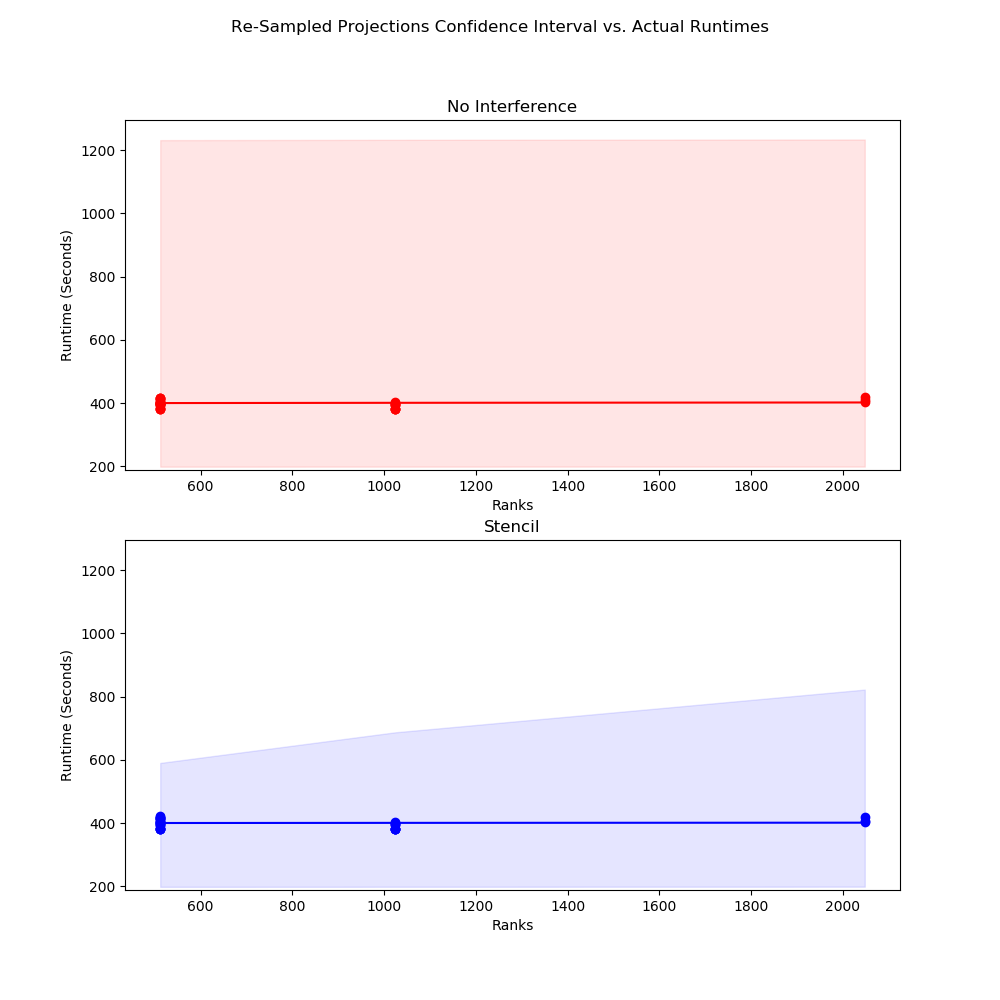
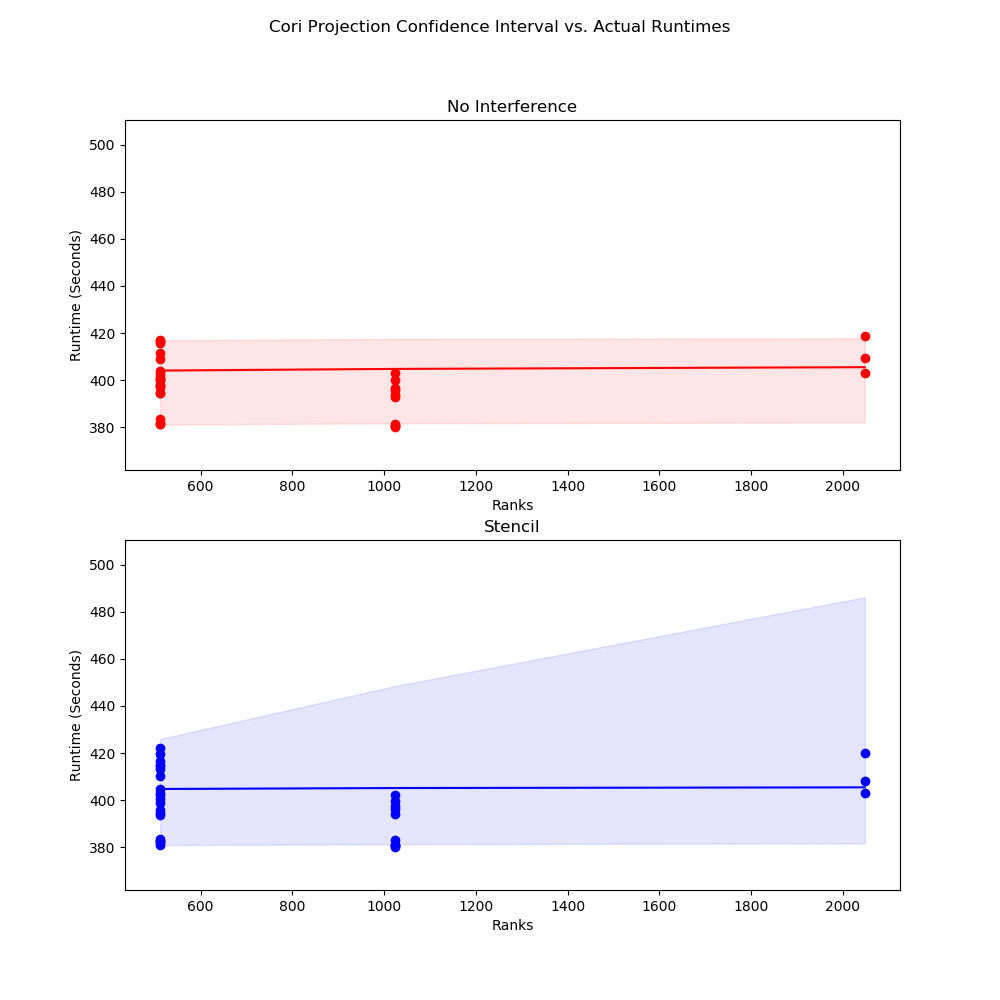
Made some tweaks - Cori looks a bit better now, need to run and update Attaway figures

diff --git a/Results/cori.py b/Results/cori.py
@@ -10,6 +10,8 @@ import pandas as pd
 import matplotlib.pyplot as plt
 import matplotlib.axes as axes
 
+from scipy import stats
+
 
 def getMetaData( explist ):
     # Get DataFrame of All Experiments
@@ -206,31 +208,34 @@ def generateRuntimeFigure( fname, figfile ):
     plt.savefig( figfile, bbox_inches='tight' )
 
 
-def generatePredictionFigure( df_All, workload, baseRanks, fname ):
+def generatePredictionFigure( df_All, workload, baseRanks, CI, fname ):
     print( 'Generating Prediction for: ' + workload )
 
     outfile = 'Figures/Cori_' + workload + '_prediction'
+    coriData = pd.read_csv( fname )
+    workloadData = coriData[ ( coriData['Workload'] == workload ) & ( coriData['Ranks'] == baseRanks )]
 
     kvals = np.array( [1, 2, 4] )
-    iterations = 50
+    iterations = 100
 
     MILLION = 1000000
+    eps = 10 ** -5
     yMin = 0
     yMax = 0
     count = 0
 
     fig, axs = plt.subplots( 2, 1, figsize=( 10, 10 ) )
-    fig.suptitle( 'Re-Sampled Projections Confidence Interval vs. Actual Runtimes' )
+    fig.suptitle( 'Cori Projection Confidence Interval vs. Actual Runtimes' )
 
     count = 0
     labels = ['No Stencil', 'Stencil']
 
     if workload == 'hpcg' or workload == 'lammps':
-        df_Cori_NoStencil = df_All[ ( df_All['machine'] == 'Cori' ) & ( df_All['processors'] == baseRanks ) & ( df_All['workload'] == workload ) & ( df_All['stencil_size'] == 0 ) ]
+        df_Cori_NoStencil = df_All[ ( df_All['machine'] == 'Cori' ) & ( df_All['processors'] == baseRanks ) & ( df_All['workload'] == workload ) & ( df_All['stencil_size'] == 0 ) & ( df_All['rabbit_workload'] == 0 ) ]
         df_List = [df_Cori_NoStencil]
     else:
-        df_Cori_NoStencil = df_All[ ( df_All['machine'] == 'Cori' ) & ( df_All['processors'] == baseRanks ) & ( df_All['workload'] == workload ) & ( df_All['stencil_size'] == 0 ) ]
-        df_Cori_Stencil = df_All [ ( df_All['machine'] == 'Cori' ) & ( df_All['processors'] == baseRanks ) & ( df_All['workload'] == workload ) & ( df_All['stencil_size'] != 0 ) ]
+        df_Cori_NoStencil = df_All[ ( df_All['machine'] == 'Cori' ) & ( df_All['processors'] == baseRanks ) & ( df_All['workload'] == workload ) & ( df_All['stencil_size'] == 0 ) & ( df_All['rabbit_workload'] == 0 ) ]
+        df_Cori_Stencil = df_All[ ( df_All['machine'] == 'Cori' ) & ( df_All['processors'] == baseRanks ) & ( df_All['workload'] == workload ) & ( df_All['stencil_size'] != 0 ) & ( df_All['rabbit_workload'] == 0 ) ]
         df_List = [df_Cori_NoStencil, df_Cori_Stencil]
 
     for df in df_List:
@@ -238,34 +243,73 @@ def generatePredictionFigure( df_All, workload, baseRanks, fname ):
         print( labels[count] )
 
         lowerBound = []
-        median = []
+        middle = []
         upperBound = []
+
+        if ( count == 0 ):
+            runtimeData = workloadData[workloadData['Stencil'] == 0]['Runtime']
+        else:
+            runtimeData = workloadData[workloadData['Stencil'] != 0]['Runtime']
+
+        minRuntime = min( runtimeData )
+        medianRuntime = runtimeData.iloc[ int( len( runtimeData ) / 2  ) ]
+        maxRuntime = max( runtimeData )
+
         for k in kvals:
-            expList = []
+            expListMin = []
+            expListMed = []
+            expListMax = []
 
             for run in range( 0, len( df ) ):
                 currentRun = df.iloc[run]
                 eid = currentRun['Experiment']
                 rid = currentRun['expid']
-                currentPath = './mlruns/' + str(eid) + '/' + str(rid) + '/artifacts/bsp-trace.json'
-                currentData = analysis.getData(currentPath)
+                currentPath = './mlruns/' + str( eid ) + '/' + str( rid ) + '/artifacts/bsp-trace.json'
+                currentData = analysis.getData( currentPath )
                 currentData = currentData[currentData['rank'] == 0]
+                currentRuntime = sum( currentData['interval_max_usec'] ) / MILLION
 
-                for i in range( iterations ):
-                    data = analysis.resample_project( currentData, len( currentData ), k, col='interval_max_usec' )
-                    projectedRunTime = sum( data ) / MILLION
-                    expList.append( projectedRunTime )
-                expList.sort()
+                if ( abs( currentRuntime - maxRuntime ) < eps ) or ( abs( currentRuntime - medianRuntime ) < eps ) or ( abs( currentRuntime - minRuntime ) < eps ):
+                    for i in range( iterations ):
+                        data = analysis.resample_project( currentData, len( currentData ), k, col='interval_max_usec' )
+                        projectedRunTime = sum( data ) / MILLION
+                        print( 'Run:', run + 1, '/', len( df ), '\tIteration:', i + 1, '/', iterations, '\tWorkload:', workload, '\tk:', k, '\tProjected Runtime:', projectedRunTime )
 
-            lowerBound.append( expList[0] )
-            median.append( expList[int( len( expList ) / 2 )] )
-            upperBound.append( expList[-1] )
+                        if ( abs( currentRuntime - minRuntime ) < eps ):
+                            expListMin.append( projectedRunTime )
+                        if ( abs( currentRuntime - medianRuntime ) < eps ):
+                            expListMed.append( projectedRunTime )
+                        if ( abs( currentRuntime - maxRuntime ) < eps ):
+                            expListMax.append( projectedRunTime )
+
+            expListMin.sort()
+            expListMed.sort()
+            expListMax.sort()
+
+            meanMin = np.mean( np.array( expListMin ) )
+            stvMin = stats.sem( np.array( expListMin ) )
+
+            meanMed = np.mean( np.array( expListMed ) )
+            stvMed = stats.sem( np.array( expListMed ) )
+
+            meanMax = np.mean( np.array( expListMax ) )
+            stvMax = stats.sem( np.array( expListMax ) )
+
+            intervalMin = stats.norm.interval( CI, loc=meanMin, scale=stvMin )
+            intervalMed = stats.norm.interval( CI, loc=meanMed, scale=stvMed )
+            intervalMax = stats.norm.interval( CI, loc=meanMax, scale=stvMax )
+
+            print( CI, '$ Confidence Interval:', intervalMin[0], intervalMax[1], '\tMedian:', ( intervalMed[0] + intervalMed[1] ) / 2 )
+
+            lowerBound.append( intervalMin[0] )
+            middle.append( ( intervalMed[0] + intervalMed[1] ) / 2 )
+            upperBound.append( intervalMax[1] )
 
         if count == 0:
-            _ = axs[count].plot( baseRanks * kvals, median, color='red' )
+            _ = axs[count].plot( baseRanks * kvals, middle, color='red' )
             _ = axs[count].fill_between( baseRanks * kvals, lowerBound, upperBound, color='red', alpha=.1 )
         if count == 1:
-            _ = axs[count].plot( baseRanks * kvals, median, color='blue' )
+            _ = axs[count].plot( baseRanks * kvals, middle, color='blue' )
             _ = axs[count].fill_between( baseRanks * kvals, lowerBound, upperBound, color='blue', alpha=.1)
 
         if count == 0:
@@ -278,8 +322,6 @@ def generatePredictionFigure( df_All, workload, baseRanks, fname ):
                 yMax = max( upperBound )
 
         count = count + 1
-
-    coriData = pd.read_csv( fname )
 
     for run in range( 0, len( coriData ) ):
         label = ''
@@ -314,7 +356,8 @@ def generatePredictionFigure( df_All, workload, baseRanks, fname ):
 
 
 def main():
-    # writeMetaData( 'Results/CoriData.csv', list( range( 85, 235 ) ) )
+    expRange = list( range( 85, 235 ) )
+    # writeMetaData( 'Results/CoriData.csv', expRange )
 
     # writeNormalizedMetaData( 'Results/CoriData.csv', 'Results/CoriNormalized.csv' )
 
@@ -323,9 +366,12 @@ def main():
     workloads = ['sleep', 'fwq', 'dgemm', 'spmv', 'hpcg', 'lammps']
 
     df_All = analysis.getAllExperiments()
+    df_All = df_All.loc[ df_All[ 'Experiment' ].isin( expRange ) ]
+
     baseRanks = 512
+    CI = 0.95
 
     for workload in workloads:
-        generatePredictionFigure( df_All, workload, baseRanks, 'Results/CoriData.csv' )
+        generatePredictionFigure( df_All, workload, baseRanks, CI, 'Results/CoriData.csv' )
 
 main()

diff --git a/Results/attaway.py b/Results/attaway.py
@@ -10,6 +10,8 @@ import pandas as pd
 import matplotlib.pyplot as plt
 import matplotlib.axes as axes
 
+from scipy import stats
+
 
 def getMetaData( explist ):
     # Get DataFrame of All Experiments
@@ -206,21 +208,24 @@ def generateRuntimeFigure( fname, figfile ):
     plt.savefig( figfile, bbox_inches='tight' )
 
 
-def generatePredictionFigure( df_All, workload, baseRanks, fname ):
+def generatePredictionFigure( df_All, workload, baseRanks, CI, fname ):
     print( 'Generating Prediction for: ' + workload )
 
     outfile = 'Figures/Attaway_' + workload + '_prediction'
+    coriData = pd.read_csv( fname )
+    workloadData = coriData[ ( coriData['Workload'] == workload ) & ( coriData['Ranks'] == baseRanks )]
 
     kvals = np.array( [1, 2, 4] )
-    iterations = 50
+    iterations = 1000
 
     MILLION = 1000000
+    eps = 10 ** -5
     yMin = 0
     yMax = 0
     count = 0
 
     fig, axs = plt.subplots( 2, 1, figsize=( 10, 10 ) )
-    fig.suptitle( 'Re-Sampled Projections Confidence Interval vs. Actual Runtimes' )
+    fig.suptitle( 'Attaway Projection Confidence Interval vs. Actual Runtimes' )
 
     count = 0
     labels = ['No Stencil', 'Stencil']
@@ -237,34 +242,73 @@ def generatePredictionFigure( df_All, workload, baseRanks, fname ):
         print( labels[count] )
 
         lowerBound = []
-        median = []
+        middle = []
         upperBound = []
+
+        if ( count == 0 ):
+            runtimeData = workloadData[workloadData['Stencil'] == 0]['Runtime']
+        else:
+            runtimeData = workloadData[workloadData['Stencil'] != 0]['Runtime']
+
+        minRuntime = min( runtimeData )
+        medianRuntime = runtimeData.iloc[ int( len( runtimeData ) / 2  ) ]
+        maxRuntime = max( runtimeData )
+
         for k in kvals:
-            expList = []
+            expListMin = []
+            expListMed = []
+            expListMax = []
 
             for run in range( 0, len( df ) ):
                 currentRun = df.iloc[run]
                 eid = currentRun['Experiment']
                 rid = currentRun['expid']
-                currentPath = './mlruns/' + str(eid) + '/' + str(rid) + '/artifacts/bsp-trace.json'
-                currentData = analysis.getData(currentPath)
+                currentPath = './mlruns/' + str( eid ) + '/' + str( rid ) + '/artifacts/bsp-trace.json'
+                currentData = analysis.getData( currentPath )
                 currentData = currentData[currentData['rank'] == 0]
+                currentRuntime = sum( currentData['interval_max_usec'] ) / MILLION
 
-                for i in range( iterations ):
-                    data = analysis.resample_project( currentData, len( currentData ), k, col='interval_max_usec' )
-                    projectedRunTime = sum( data ) / MILLION
-                    expList.append( projectedRunTime )
-                expList.sort()
+                if ( abs( currentRuntime - maxRuntime ) < eps ) or ( abs( currentRuntime - medianRuntime ) < eps ) or ( abs( currentRuntime - minRuntime ) < eps ):
+                    for i in range( iterations ):
+                        data = analysis.resample_project( currentData, len( currentData ), k, col='interval_max_usec' )
+                        projectedRunTime = sum( data ) / MILLION
+                        print( 'Run:', run + 1, '/', len( df ), '\tIteration:', i + 1, '/', iterations, '\tWorkload:', workload, '\tk:', k, '\tProjected Runtime:', projectedRunTime )
 
-            lowerBound.append( expList[0] )
-            median.append( expList[int( len( expList ) / 2 )] )
-            upperBound.append( expList[-1] )
+                        if ( abs( currentRuntime - minRuntime ) < eps ):
+                            expListMin.append( projectedRunTime )
+                        if ( abs( currentRuntime - medianRuntime ) < eps ):
+                            expListMed.append( projectedRunTime )
+                        if ( abs( currentRuntime - maxRuntime ) < eps ):
+                            expListMax.append( projectedRunTime )
+
+            expListMin.sort()
+            expListMed.sort()
+            expListMax.sort()
+
+            meanMin = np.mean( np.array( expListMin ) )
+            stvMin = stats.sem( np.array( expListMin ) )
+
+            meanMed = np.mean( np.array( expListMed ) )
+            stvMed = stats.sem( np.array( expListMed ) )
+
+            meanMax = np.mean( np.array( expListMax ) )
+            stvMax = stats.sem( np.array( expListMax ) )
+
+            intervalMin = stats.norm.interval( CI, loc=meanMin, scale=stvMin )
+            intervalMed = stats.norm.interval( CI, loc=meanMed, scale=stvMed )
+            intervalMax = stats.norm.interval( CI, loc=meanMax, scale=stvMax )
+
+            print( CI, '$ Confidence Interval:', intervalMin[0], intervalMax[1], '\tMedian:', ( intervalMed[0] + intervalMed[1] ) / 2 )
+
+            lowerBound.append( intervalMin[0] )
+            middle.append( ( intervalMed[0] + intervalMed[1] ) / 2 )
+            upperBound.append( intervalMax[1] )
 
         if count == 0:
-            _ = axs[count].plot( baseRanks * kvals, median, color='red' )
+            _ = axs[count].plot( baseRanks * kvals, middle, color='red' )
             _ = axs[count].fill_between( baseRanks * kvals, lowerBound, upperBound, color='red', alpha=.1 )
         if count == 1:
-            _ = axs[count].plot( baseRanks * kvals, median, color='blue' )
+            _ = axs[count].plot( baseRanks * kvals, middle, color='blue' )
             _ = axs[count].fill_between( baseRanks * kvals, lowerBound, upperBound, color='blue', alpha=.1)
 
         if count == 0:
@@ -295,9 +339,10 @@ def generatePredictionFigure( df_All, workload, baseRanks, fname ):
             if myworkload == workload:
                 axs[0].plot( int( ranks ), currentRunTime, 'o', color='red' )
 
-        if label == 'Stencil':
-            if myworkload == workload:
-                axs[1].plot( int( ranks ), currentRunTime, 'o', color='blue' )
+        if not ( workload == 'hpcg' or workload == 'spmv' ):
+            if label == 'Stencil':
+                if myworkload == workload:
+                    axs[1].plot( int( ranks ), currentRunTime, 'o', color='blue' )
 
     _ = axs[0].set_ylim( [0.95 * yMin, 1.05 * yMax] )
     _ = axs[0].set_title( 'No Interference' )
@@ -313,7 +358,8 @@ def generatePredictionFigure( df_All, workload, baseRanks, fname ):
 
 
 def main():
-    # writeMetaData( 'Results/AttawayData.csv', list( range( 235, 330 ) ) )
+    expRange = list( range( 235, 330 ) )
+    # writeMetaData( 'Results/AttawayData.csv', list( expRange )
 
     # writeNormalizedMetaData( 'Results/AttawayData.csv', 'Results/AttawayNormalized.csv' )
 
@@ -322,6 +368,9 @@ def main():
     workloads = ['sleep', 'fwq', 'dgemm', 'spmv', 'hpcg', 'lammps']
 
     df_All = analysis.getAllExperiments()
+    df_All = df_All.loc[ df_All[ 'Experiment' ].isin( expRange ) ]
+
+    CI = 0.95
 
     for workload in workloads:
         if workload == 'dgemm':
@@ -329,6 +378,6 @@ def main():
         else:
             baseRanks = 512
 
-        generatePredictionFigure( df_All, workload, baseRanks, 'Results/AttawayData.csv' )
+        generatePredictionFigure( df_All, workload, baseRanks, CI, 'Results/AttawayData.csv' )
 
 main()
